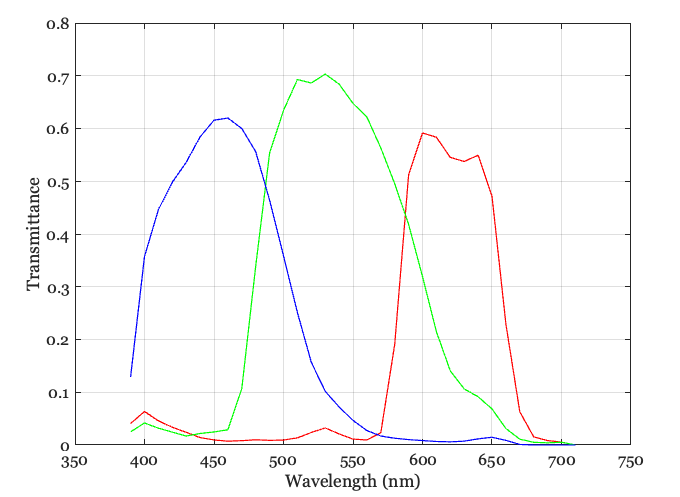
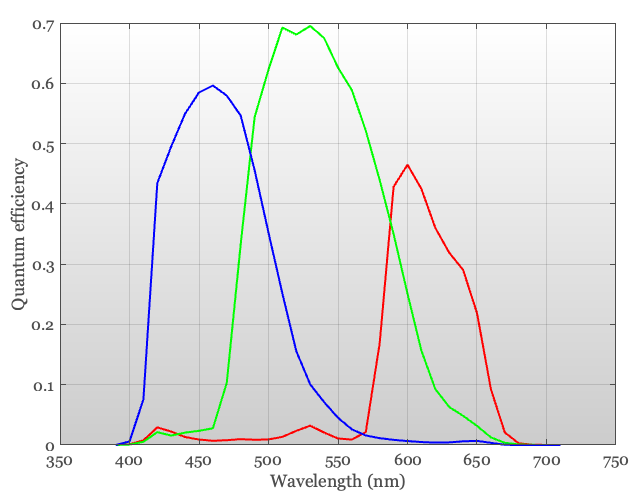
Refactor code structure for improved readability and maintainability

diff --git a/code/fise_sensorCFA.m b/code/fise_sensorCFA.m
@@ -1,18 +1,27 @@
 %% fise_sensorCFA
 %
 %
-% Make a plot of a spectral channel 
+% Make a plot of a spectral channel
+%
 
 sensor = sensorCreate('imX363');
 
-sensorPlot(sensor,'ir filter');
+% sensorPlot(sensor,'ir filter');
 
-sensorPlot(sensor,'color channels');
+%%
+[~,hdl] = sensorPlot(sensor,'spectral qe');
+ax = iePlotShadeBackground(hdl.CurrentAxes);
+set(ax.Children,'LineWidth',2);
 
+%%
 sensorPlot(sensor,'cfa image');
 
 % sensorPlot(sensor,'cfa full');
 
-sensorPlot(sensor,'pixel spectral qe');
+%%
+% This is
+[~,hdl] = sensorPlot(sensor,'pd spectral qe');
+ax = iePlotShadeBackground(hdl.CurrentAxes);
+set(ax.Children,'LineWidth',2);
 
 
